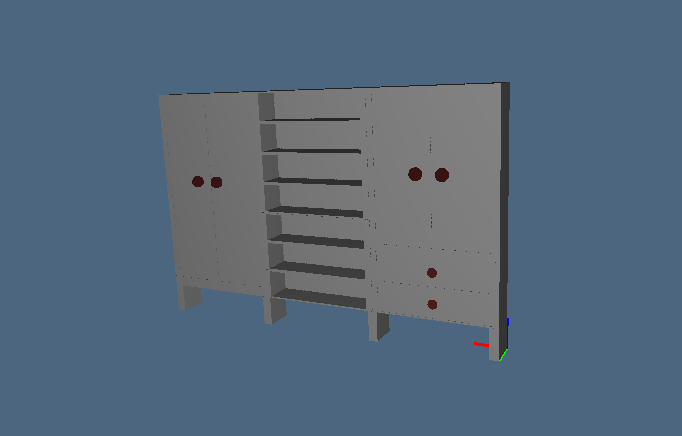
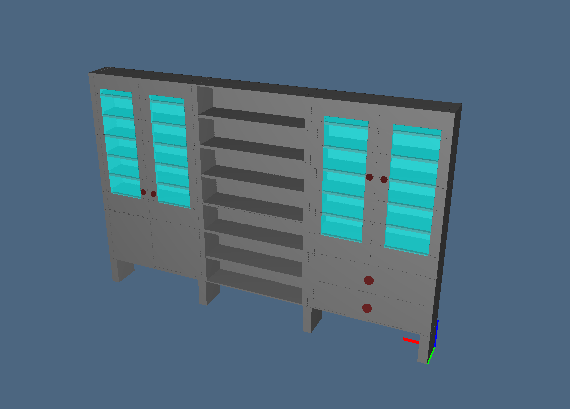
window

Changed region(s): [[0.1491, 0.1467, 0.8351, 0.9095], [0.6263, 0.6748, 0.6561, 0.7042], [0.6263, 0.6161, 0.6561, 0.6455]]

diff --git a/2017-10-30/lib.py b/2017-10-30/lib.py
@@ -1,0 +1,25 @@
+from larlib import *
+def hex_material(color, light, trasparence):
+
+    def hex_to_rgb(value):
+        value = value.lstrip('#')
+        lv = len(value)
+        return map(lambda x: x/255., list(int(value[i:i + lv // 3], 16) for i in range(0, lv, lv // 3)))
+
+    params = hex_to_rgb(color) + [.1] + \
+             hex_to_rgb(light) + [trasparence] +\
+             hex_to_rgb(light) + [.1] +\
+             hex_to_rgb("#000000") + [.1] +\
+             [100]
+
+    return MATERIAL(params)
+
+
+
+def shelf(x,y,z):
+    return STRUCT([CUBOID([x,y,z*0.05]),CUBOID([x,y*0.05,z]),CUBOID([x*0.05,y,z]),T(1)(x*0.95)(CUBOID([x*0.05,y,z])),T(3)(z*0.95)(CUBOID([x,y,z*0.05]))])
+
+def table(width,depth,height):
+    plane=CUBOID([width,depth*1.5,height*.1])
+    legs=CUBOID([width*.1,depth*.1,height*.8])
+    return STRUCT([legs,T(3)(height*.8)(plane),T([1,2])([width*.9,depth*1.4])(legs),T(1)(width*.9)(legs),T(2)(depth*1.4)(legs)])
